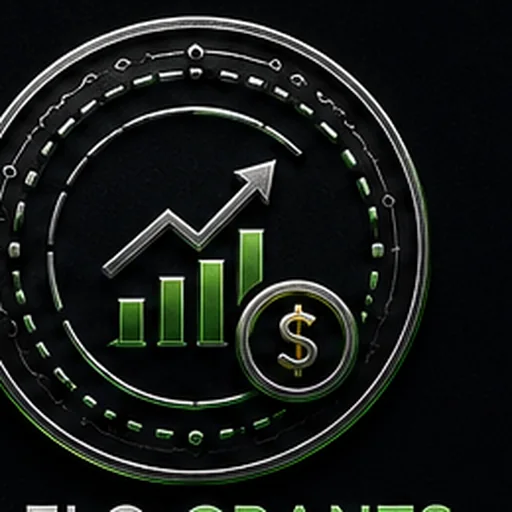
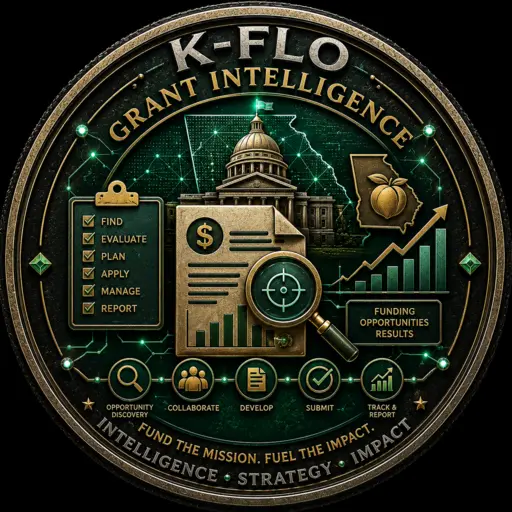
Fix Grant Intelligence coin and add interactive K-FLO Arc

diff --git a/src/AppV2Overrides.css b/src/AppV2Overrides.css
@@ -104,6 +104,264 @@
   box-shadow: 0 22px 60px rgba(132, 72, 255, 0.09), inset 0 1px rgba(255,255,255,.07);
 }
 
+/* Interactive platform map: one deliberate hero moment for the full K-FLO system. */
+.k2-system-showcase {
+  position: relative;
+  overflow: hidden;
+  padding: clamp(20px, 2.6vw, 32px);
+  isolation: isolate;
+  background:
+    radial-gradient(circle at 23% 42%, rgba(23, 139, 255, 0.14), transparent 30%),
+    radial-gradient(circle at 88% 12%, rgba(112, 232, 177, 0.08), transparent 28%),
+    linear-gradient(145deg, rgba(12, 18, 31, 0.98), rgba(2, 4, 8, 0.97));
+}
+
+.k2-system-showcase::before {
+  content: "";
+  position: absolute;
+  z-index: -1;
+  inset: -35%;
+  opacity: 0.15;
+  background-image:
+    linear-gradient(rgba(112, 189, 255, 0.13) 1px, transparent 1px),
+    linear-gradient(90deg, rgba(112, 189, 255, 0.13) 1px, transparent 1px);
+  background-size: 42px 42px;
+  transform: perspective(500px) rotateX(58deg) translateY(26%);
+  transform-origin: center bottom;
+  mask-image: linear-gradient(to bottom, transparent, #000 32%, #000 70%, transparent);
+}
+
+.k2-system-head {
+  display: flex;
+  align-items: center;
+  justify-content: space-between;
+  gap: 18px;
+  padding-bottom: 18px;
+  border-bottom: 1px solid rgba(255, 255, 255, 0.09);
+}
+
+.k2-system-head img {
+  display: block;
+  width: min(46%, 210px);
+  height: auto;
+  border-radius: 10px;
+}
+
+.k2-system-head > span {
+  color: #70bdff;
+  font-size: 0.66rem;
+  font-weight: 950;
+  letter-spacing: 0.17em;
+  text-transform: uppercase;
+}
+
+.k2-system-feature {
+  --arc-color: #178bff;
+  --arc-rgb: 23, 139, 255;
+  display: grid;
+  grid-template-columns: minmax(180px, 0.86fr) 1.14fr;
+  align-items: center;
+  gap: clamp(22px, 3vw, 38px);
+  min-height: 330px;
+  padding: clamp(28px, 4vw, 44px) 0;
+  animation: k2-feature-in 420ms cubic-bezier(0.22, 1, 0.36, 1) both;
+}
+
+.k2-system-feature.violet {
+  --arc-color: #a56dff;
+  --arc-rgb: 165, 109, 255;
+}
+
+.k2-system-feature.cyan {
+  --arc-color: #4dd9ff;
+  --arc-rgb: 77, 217, 255;
+}
+
+.k2-system-feature.teal {
+  --arc-color: #40d6c5;
+  --arc-rgb: 64, 214, 197;
+}
+
+.k2-system-feature.green {
+  --arc-color: #70e8b1;
+  --arc-rgb: 112, 232, 177;
+}
+
+.k2-system-coin-wrap {
+  position: relative;
+  width: min(100%, 244px);
+  aspect-ratio: 1;
+  display: grid;
+  place-items: center;
+  justify-self: center;
+  border-radius: 50%;
+  background: #020508;
+  box-shadow: 0 0 70px rgba(var(--arc-rgb), 0.2);
+}
+
+.k2-system-coin-wrap::before {
+  content: "";
+  position: absolute;
+  inset: -8px;
+  border-radius: inherit;
+  background: conic-gradient(from 35deg, transparent 0 20%, var(--arc-color) 28%, transparent 36% 69%, rgba(255,255,255,.65) 75%, transparent 82%);
+  filter: blur(0.2px);
+  opacity: 0.8;
+  animation: k2-orbit 10s linear infinite;
+}
+
+.k2-system-coin-wrap::after {
+  content: "";
+  position: absolute;
+  inset: 1px;
+  border: 1px solid rgba(var(--arc-rgb), 0.55);
+  border-radius: inherit;
+  box-shadow: inset 0 0 22px rgba(var(--arc-rgb), 0.18);
+  pointer-events: none;
+}
+
+.k2-system-coin-wrap img {
+  position: relative;
+  z-index: 1;
+  display: block;
+  width: calc(100% - 8px);
+  height: calc(100% - 8px);
+  object-fit: contain;
+  border-radius: 50%;
+  background: #020508;
+}
+
+.k2-system-detail h2 {
+  margin: 10px 0 8px;
+  color: #fff;
+  font-size: clamp(1.75rem, 3.2vw, 3rem);
+  line-height: 0.96;
+  letter-spacing: -0.045em;
+}
+
+.k2-system-stage {
+  color: var(--arc-color);
+  font-size: 0.7rem;
+  font-weight: 950;
+  letter-spacing: 0.16em;
+}
+
+.k2-system-detail > strong {
+  color: #dfeaff;
+  font-size: 0.82rem;
+  letter-spacing: 0.06em;
+  text-transform: uppercase;
+}
+
+.k2-system-detail p {
+  margin: 14px 0 18px;
+  color: var(--muted);
+  font-size: 0.92rem;
+  line-height: 1.58;
+}
+
+.k2-system-detail a {
+  display: inline-flex;
+  align-items: center;
+  gap: 8px;
+  color: var(--arc-color);
+  font-size: 0.78rem;
+  font-weight: 950;
+  letter-spacing: 0.08em;
+  text-transform: uppercase;
+}
+
+.k2-arc-tabs {
+  position: relative;
+  display: grid;
+  grid-template-columns: repeat(5, minmax(0, 1fr));
+  gap: 8px;
+  padding-top: 18px;
+  border-top: 1px solid rgba(255, 255, 255, 0.09);
+}
+
+.k2-arc-button {
+  position: relative;
+  min-width: 0;
+  padding: 11px 5px 10px;
+  border: 1px solid transparent;
+  border-radius: 12px;
+  background: transparent;
+  color: #75849a;
+  font: inherit;
+  cursor: pointer;
+  transition: color 180ms ease, border-color 180ms ease, background 180ms ease, transform 180ms ease;
+}
+
+.k2-arc-button::before {
+  content: "";
+  display: block;
+  width: 8px;
+  height: 8px;
+  margin: 0 auto 8px;
+  border: 2px solid currentColor;
+  border-radius: 50%;
+  box-shadow: 0 0 0 4px #07101d;
+}
+
+.k2-arc-button span,
+.k2-arc-button strong {
+  display: block;
+  overflow: hidden;
+  text-overflow: ellipsis;
+}
+
+.k2-arc-button span {
+  margin-bottom: 3px;
+  font-size: 0.56rem;
+  font-weight: 800;
+  letter-spacing: 0.1em;
+}
+
+.k2-arc-button strong {
+  font-size: clamp(0.56rem, 0.8vw, 0.68rem);
+  letter-spacing: 0.08em;
+}
+
+.k2-arc-button:hover,
+.k2-arc-button.active {
+  color: #70bdff;
+  border-color: rgba(112, 189, 255, 0.24);
+  background: rgba(23, 139, 255, 0.08);
+  transform: translateY(-2px);
+}
+
+.k2-arc-button:focus-visible,
+.k2-system-detail a:focus-visible {
+  outline: 3px solid #70bdff;
+  outline-offset: 3px;
+}
+
+.k2-arc-caption {
+  margin: 16px 0 0;
+  color: #78879c;
+  font-size: 0.63rem;
+  font-weight: 750;
+  letter-spacing: 0.06em;
+  text-align: center;
+  text-transform: uppercase;
+}
+
+.k2-arc-caption span {
+  margin-right: 8px;
+  color: #dce8f9;
+  font-weight: 950;
+}
+
+@keyframes k2-orbit {
+  to { transform: rotate(360deg); }
+}
+
+@keyframes k2-feature-in {
+  from { opacity: 0; transform: translateY(10px) scale(0.985); }
+  to { opacity: 1; transform: translateY(0) scale(1); }
+}
+
 .k2-page button.k2-button {
   color: inherit;
   font: inherit;
@@ -234,6 +492,49 @@
     grid-column: 1 / -1;
     width: min(100%, 520px);
     justify-self: center;
+  }
+}
+
+@media (max-width: 540px) {
+  .k2-system-feature {
+    grid-template-columns: 1fr;
+    min-height: 0;
+    text-align: center;
+  }
+
+  .k2-system-coin-wrap {
+    width: min(64vw, 224px);
+  }
+
+  .k2-system-detail p {
+    max-width: 36rem;
+    margin-right: auto;
+    margin-left: auto;
+  }
+
+  .k2-arc-tabs {
+    gap: 3px;
+  }
+
+  .k2-arc-button {
+    padding-right: 2px;
+    padding-left: 2px;
+  }
+
+  .k2-arc-button span {
+    display: none;
+  }
+
+  .k2-arc-button strong {
+    font-size: 0.5rem;
+    letter-spacing: 0.035em;
+  }
+}
+
+@media (prefers-reduced-motion: reduce) {
+  .k2-system-feature,
+  .k2-system-coin-wrap::before {
+    animation: none;
   }
 }
 

diff --git a/src/AppV2.jsx b/src/AppV2.jsx
@@ -12,11 +12,11 @@ const TALK_SUBJECT = 'K-FLO Platform Conversation'
 const AUDIT_SUBJECT = 'K-FLO Workflow Audit'
 
 const verticals = [
-  { name: 'K-FLO Recovery', line: 'Operate • Document • Prove', text: 'Recovery-housing operations, resident flow, beds, compliance, funding requirements, and de-identified reporting in one system.', href: 'https://rph.kflo.ai', color: 'blue', image: recoveryCoin, badge: 'LIVE' },
-  { name: 'K-FLO BeHave', line: 'Access • Coordinate • Place • Prove', text: 'Live behavioral-health capacity, court-to-care tracking, placement coordination, program workflows, and verified follow-through.', href: 'https://behavior.kflo.ai', color: 'violet', image: behavioralHealthCoin, badge: 'DEMO' },
-  { name: 'K-FLO Connect', line: 'Beds • Visibility • Placement', text: 'A free network layer where recovery homes keep beds current, get found by referral partners, and report from the same record.', href: 'https://connect.kflo.ai', color: 'cyan', image: connectCoin, badge: 'FREE' },
-  { name: 'K-FLO Command', line: 'Oversight • Insight • Proof', text: 'Live, de-identified visibility into network capacity, compliance posture, deliverables, and outcomes across funded programs.', href: 'https://command.kflo.ai', color: 'teal', image: commandCoin },
-  { name: 'K-FLO Grant Intelligence', line: 'Find • Evaluate • Apply • Report', text: 'A developing funding workspace that connects opportunity discovery, application work, award management, and reporting.', href: 'https://grants.kflo.ai', color: 'green', image: grantsCoin, badge: 'EARLY STAGE' },
+  { name: 'K-FLO Recovery', arc: 'OPERATE', line: 'Operate • Document • Prove', text: 'Recovery-housing operations, resident flow, beds, compliance, funding requirements, and de-identified reporting in one system.', href: 'https://rph.kflo.ai', color: 'blue', image: recoveryCoin, badge: 'LIVE' },
+  { name: 'K-FLO BeHave', arc: 'PLACE', line: 'Access • Coordinate • Place • Prove', text: 'Live behavioral-health capacity, court-to-care tracking, placement coordination, program workflows, and verified follow-through.', href: 'https://behavior.kflo.ai', color: 'violet', image: behavioralHealthCoin, badge: 'DEMO' },
+  { name: 'K-FLO Connect', arc: 'CONNECT', line: 'Beds • Visibility • Placement', text: 'A free network layer where recovery homes keep beds current, get found by referral partners, and report from the same record.', href: 'https://connect.kflo.ai', color: 'cyan', image: connectCoin, badge: 'FREE' },
+  { name: 'K-FLO Command', arc: 'PROVE', line: 'Oversight • Insight • Proof', text: 'Live, de-identified visibility into network capacity, compliance posture, deliverables, and outcomes across funded programs.', href: 'https://command.kflo.ai', color: 'teal', image: commandCoin },
+  { name: 'K-FLO Grant Intelligence', arc: 'FUND', line: 'Find • Evaluate • Apply • Report', text: 'A developing funding workspace that connects opportunity discovery, application work, award management, and reporting.', href: 'https://grants.kflo.ai', color: 'green', image: grantsCoin, badge: 'EARLY STAGE' },
 ]
 
 const capabilities = [
@@ -84,7 +84,9 @@ function ContactDialog({ subject, onClose }) {
 
 export default function AppV2() {
   const [contactSubject, setContactSubject] = useState('')
+  const [activeVerticalIndex, setActiveVerticalIndex] = useState(0)
   const closeContact = () => setContactSubject('')
+  const activeVertical = verticals[activeVerticalIndex]
 
   return (
     <div className="k2-page">
@@ -105,7 +107,40 @@ export default function AppV2() {
             <div className="k2-actions"><a className="k2-button" href="https://rph.kflo.ai">Open K-FLO Recovery</a><button className="k2-button k2-button-ghost" type="button" onClick={() => setContactSubject(TALK_SUBJECT)}>Discuss a Pilot</button></div>
             <div className="k2-pills"><span>Recovery Operations</span><span>Compliance Ready</span><span>Grant Visibility</span><span>Oversight Proof</span></div>
           </div>
-          <div className="k2-hero-art"><img src={platformHeader} alt="K-FLO AI Operations Platform"/></div>
+          <div className="k2-hero-art k2-system-showcase">
+            <div className="k2-system-head">
+              <img src={platformHeader} alt="K-FLO AI Operations Platform"/>
+              <span>Explore the system</span>
+            </div>
+            <div className={`k2-system-feature ${activeVertical.color}`} key={activeVertical.name} aria-live="polite">
+              <div className="k2-system-coin-wrap">
+                <img src={activeVertical.image} alt={`${activeVertical.name} coin`}/>
+              </div>
+              <div className="k2-system-detail">
+                <span className="k2-system-stage">{activeVertical.arc} · 0{activeVerticalIndex + 1}</span>
+                <h2>{activeVertical.name}</h2>
+                <strong>{activeVertical.line}</strong>
+                <p>{activeVertical.text}</p>
+                <a href={activeVertical.href}>Open {activeVertical.name.replace('K-FLO ', '')} <span aria-hidden="true">↗</span></a>
+              </div>
+            </div>
+            <div className="k2-arc-tabs" aria-label="Explore the K-FLO Arc">
+              {verticals.map((vertical, index) => (
+                <button
+                  className={`k2-arc-button ${index === activeVerticalIndex ? 'active' : ''}`}
+                  type="button"
+                  key={vertical.arc}
+                  aria-pressed={index === activeVerticalIndex}
+                  aria-label={`Show ${vertical.name}: ${vertical.arc.toLowerCase()}`}
+                  onClick={() => setActiveVerticalIndex(index)}
+                >
+                  <span aria-hidden="true">0{index + 1}</span>
+                  <strong>{vertical.arc}</strong>
+                </button>
+              ))}
+            </div>
+            <p className="k2-arc-caption"><span>K-FLO ARC</span> Operate → Place → Connect → Prove → Fund</p>
+          </div>
         </section>
 
         <section className="k2-section k2-bh-callout" id="recovery">
